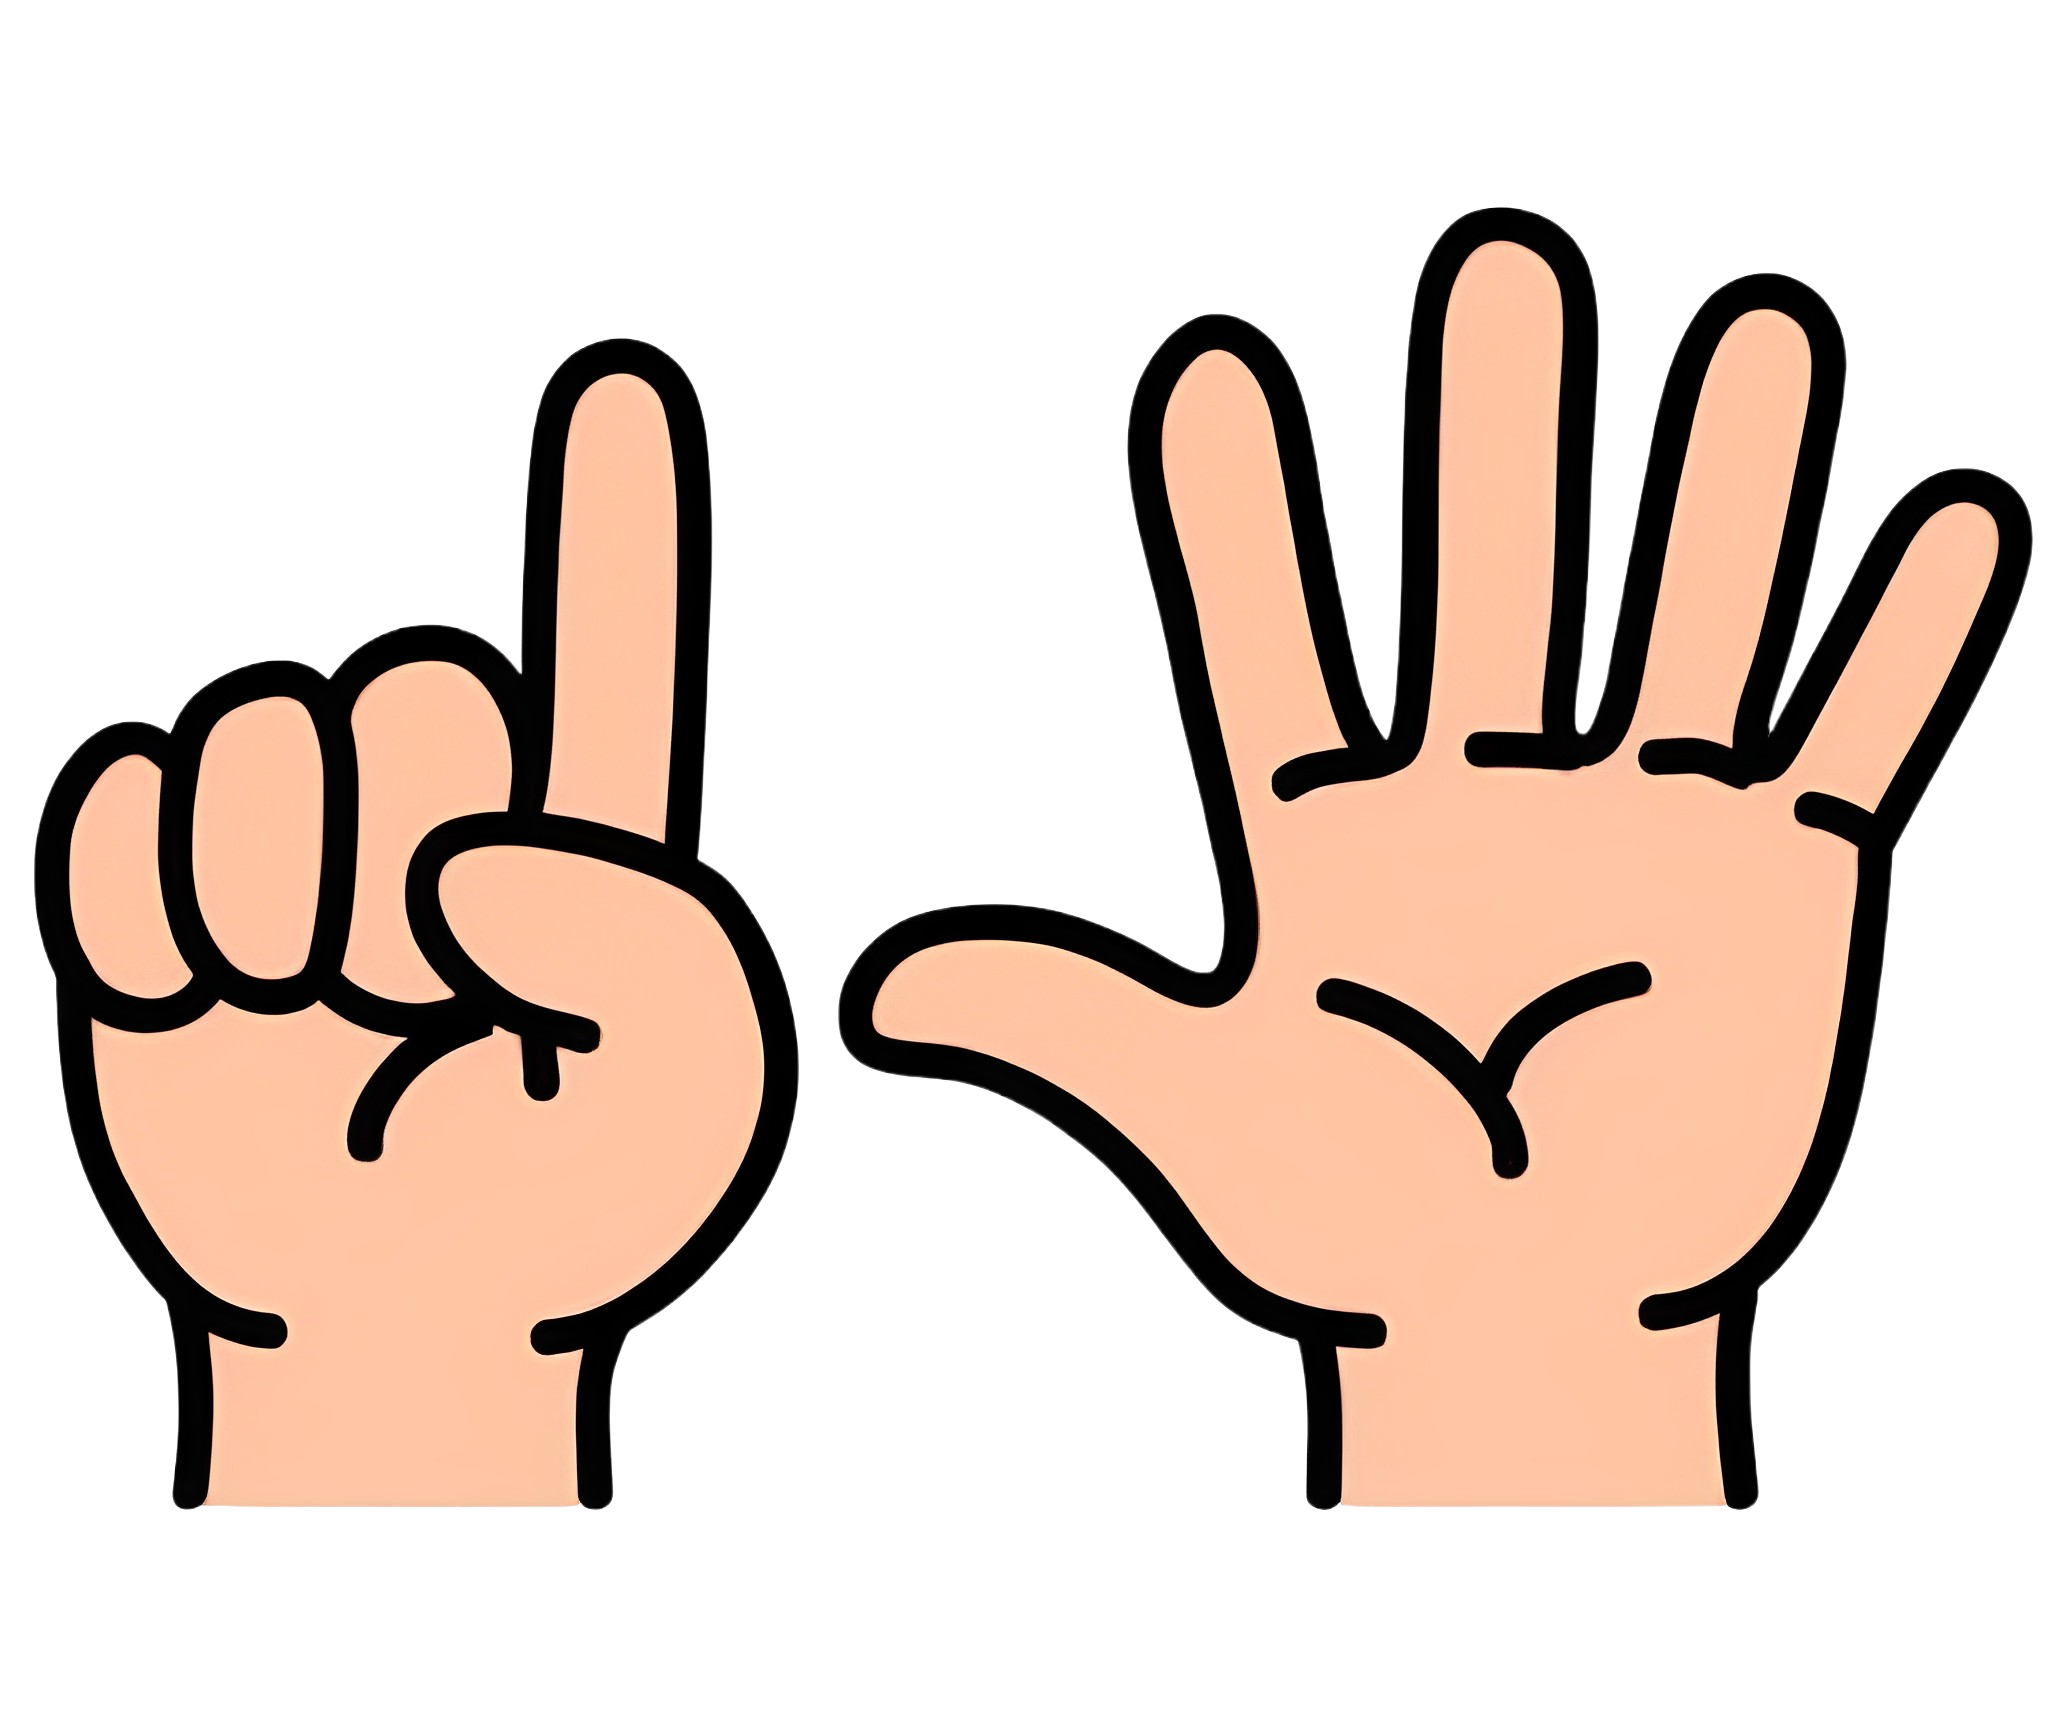
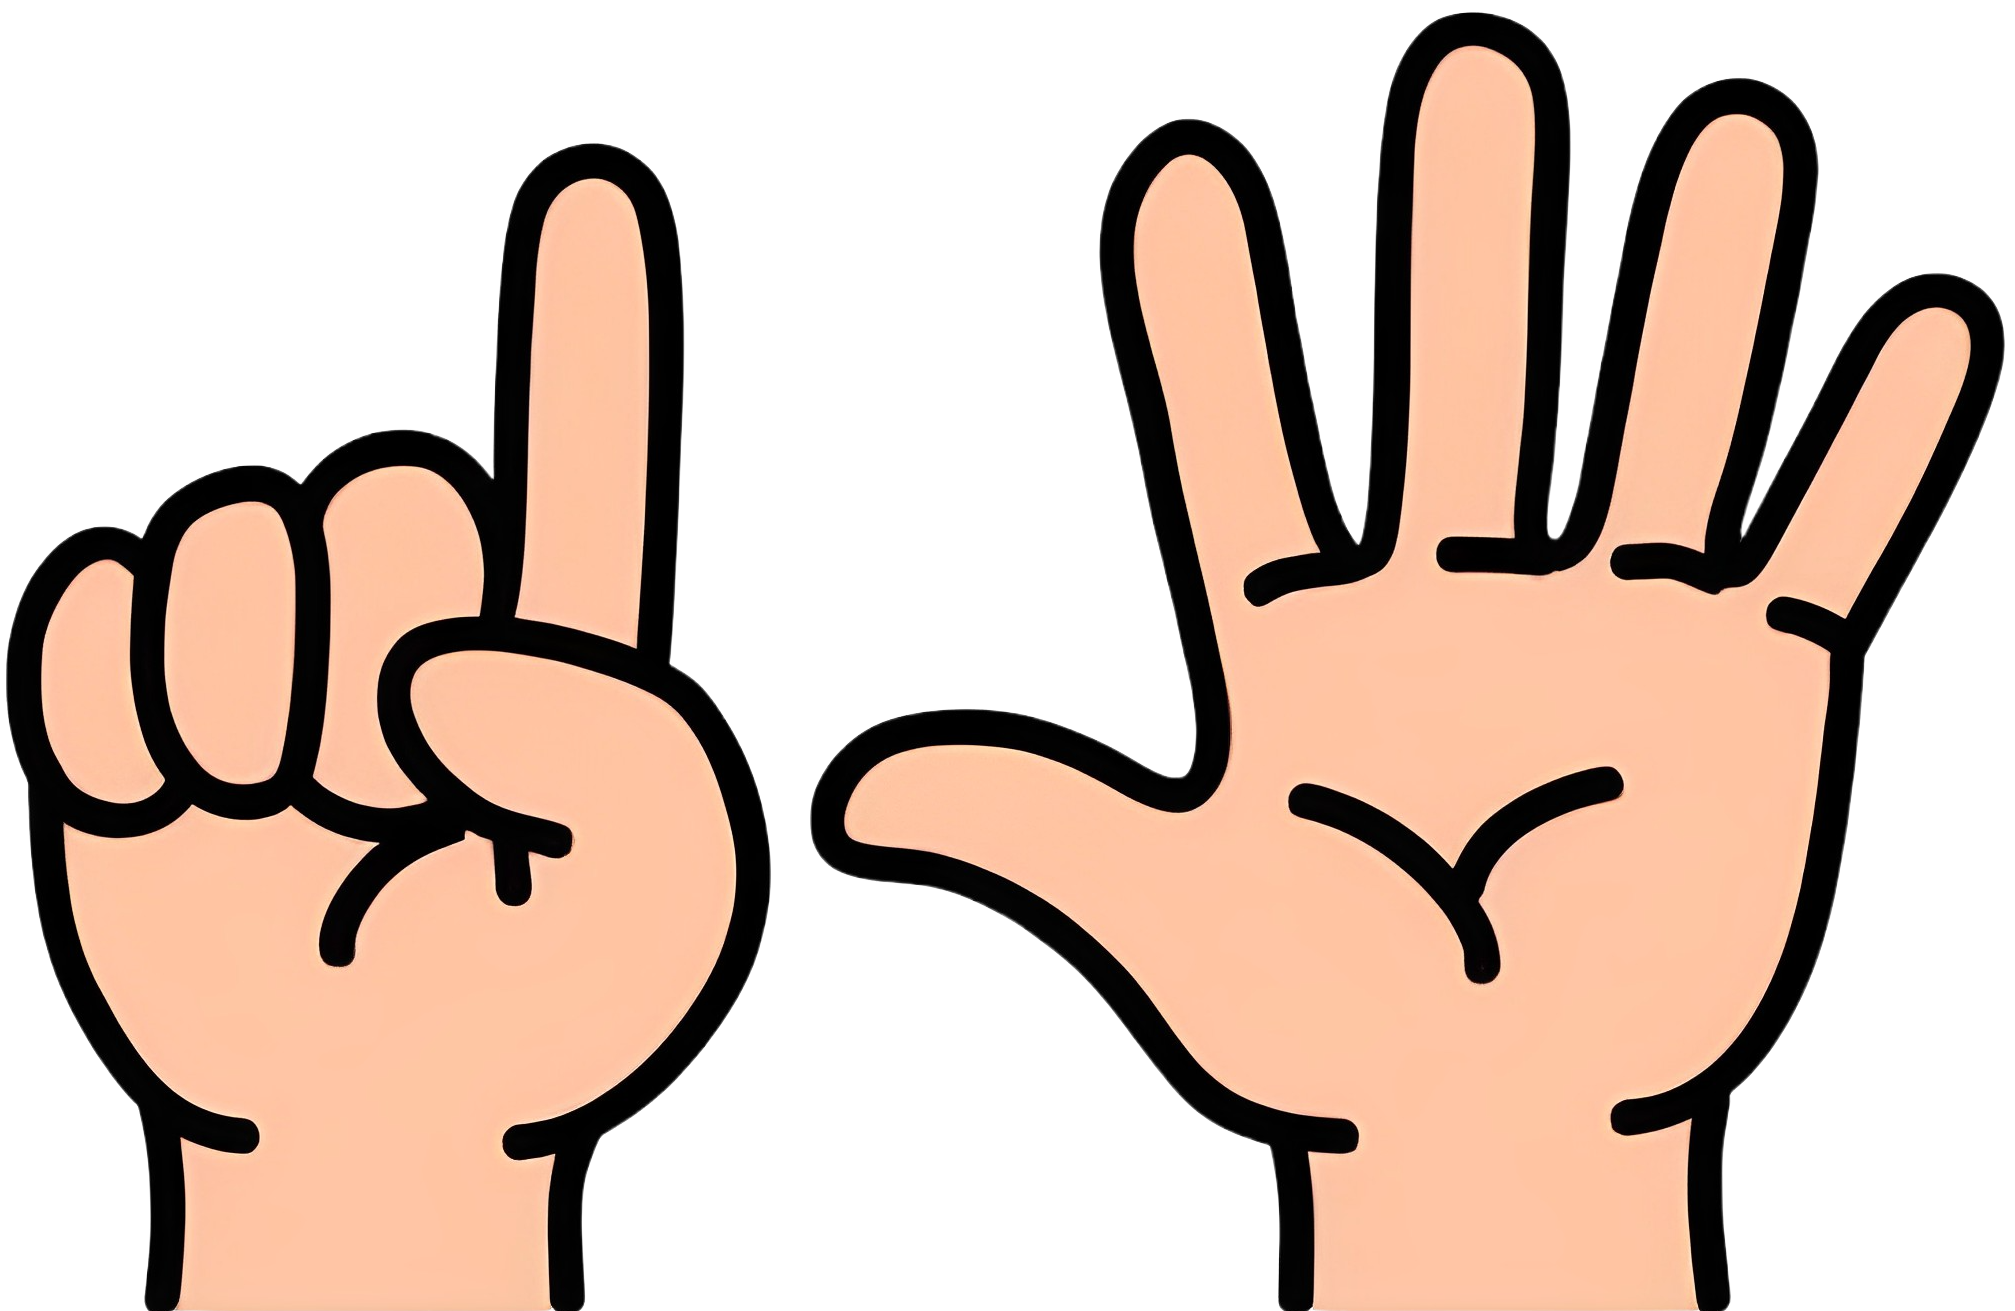
Add files via upload

Changed region(s): [[0.0, 0.0, 1.0, 1.0]]

diff --git a/styles.css b/styles.css
@@ -1,20 +1,21 @@
 @import url('https://fonts.googleapis.com/css2?family=Poppins&display=swap');
 body {
-  background: url("bg.jpg");
-  background-repeat: no-repeat;
+  background: url("bg1.jpg");
+  background-repeat: repeat;
   overflow: hidden;
   font-family: 'Poppins', sans-serif;
+  min-width: 1920px;
+  min-height: 1080px;
 }
 
 .title {
-  height: 100vh;
-  width: 100vw;
-  font-size: 300px;
+  position: absolute;
+  height: 100%;
+  width: 100%;
+  font-size: 10vw;
   color: white;
-  display: flex;
   text-align: center;
-  vertical-align: middle;
-  margin-top: 300px;
+  margin-top: 12%;
 }
 
 .backdrop {
@@ -28,16 +29,28 @@ body {
 .container {
   height: 100%;
   width: 100%;
-  display: flex;
-  justify-content: center;
-  
+  /* display: flex;
+  justify-content: center; */
+}
+
+.hand-container {
+  height: 100vh;
+  width: 100vw;
+  display: flex !important;
+  justify-content: center !important;
+  align-items: center !important;
 }
 .hand {
-  position: absolute;
-  width: 80%;
+  /* position: absolute; */
+  display: block;
+  max-width: 1450px;
+  max-height: 943px;
+  width: auto;
   height: auto;
+  /* width: 70vw; */
+  /* height: auto; */
   transform: scaleX(-1);
-  top: -135px;
+  /* top: -135px; */
 }
 
 .fingerprint {
@@ -48,11 +61,13 @@ body {
 }
 
 .finger1 {
-  width: 80px;
-  height: 120px;
+  width: 60px;
+  height: 100px;
   transform: rotate(-30deg);
-  left: 315px;
-  top: 370px;
+  /* left: 315px;
+  top: 370px; */
+  left: 15vw;
+  top: 26vh;
 }
 
 .finger1:hover {
@@ -60,10 +75,13 @@ body {
 }
 
 .finger2 {
-  width: 100px;
+  max-width: 70px;
+  width: auto;
   transform: rotate(-15deg);
-  left: 500px;
-  top: 160px;
+  /* left: 500px;
+  top: 160px; */
+  left: 21.5vw;
+  top: 10vh;
 }
 
 .finger2:hover {

diff --git a/index.html b/index.html
@@ -12,8 +12,9 @@
     <div>
       <div class="container">
         <div class="title">CONSTELLATION OF LEARNING</div>
-        <img class="hand" src="thumb1.png" />
-
+        <div class="hand-container">
+          <img class="hand" src="thumb1.png" />
+        </div>
         <img class="fingerprint finger1" src="images/finger1.png" />
         <div class="one-detail hide">
           <div class="triangle1"></div>
